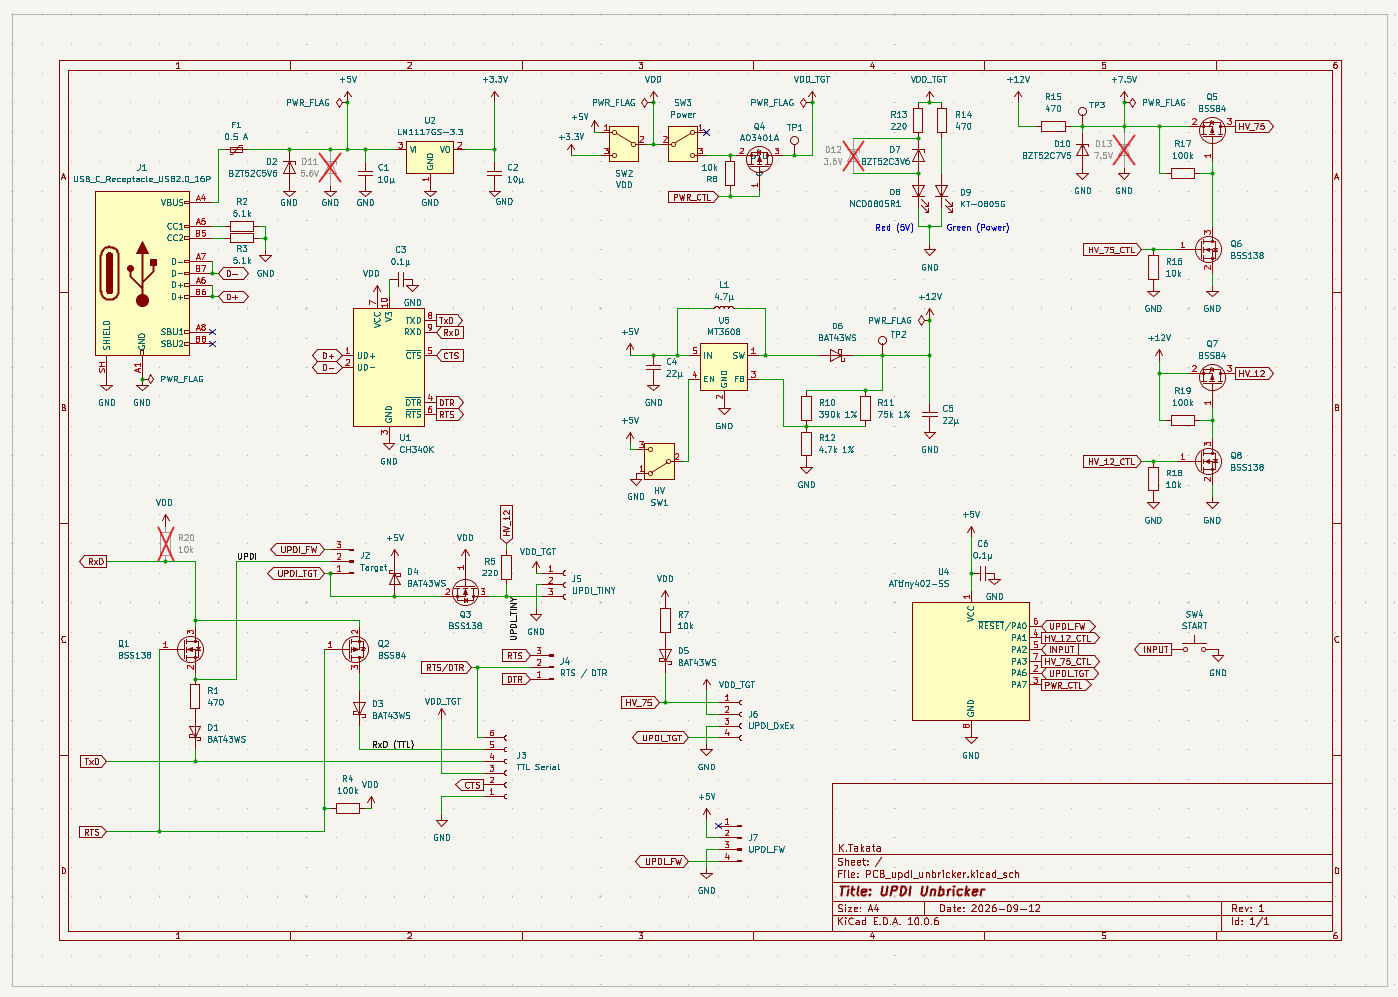
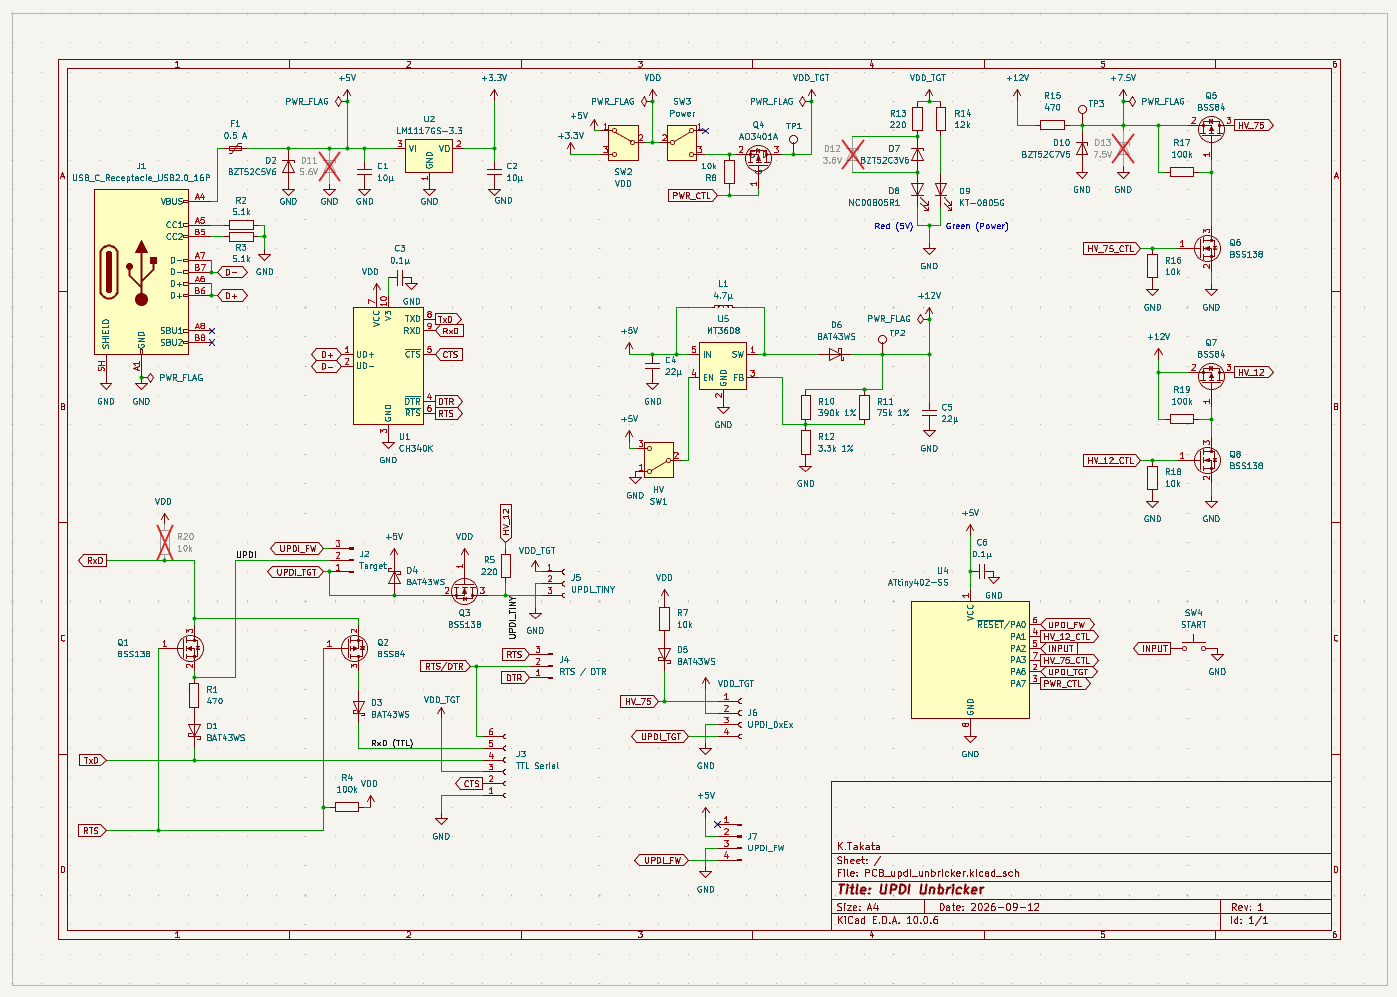
Change R14 value to 12 kΩ

diff --git a/README.md b/README.md
@@ -106,7 +106,7 @@ See “Usage” for detailed procedures.
 | R11 | 1 | 75 kΩ 1% | 1608M (\*5) |
 | R12 | 1 | 3.3 kΩ 1% | 1608M (\*5) |
 | R13 | 1 | 220 Ω | 1608M; adjust according to LED (47 Ω to 220 Ω) |
-| R14 | 1 | 470 Ω | 1608M; adjust according to LED |
+| R14 | 1 | 12 kΩ | 1608M; adjust according to LED |
 | R20 | (1) | 10 kΩ | Do not install (1608M) |
 | SW1-SW3 | 3 | [SS-12D00G3](https://akizukidenshi.com/catalog/g/g115707/) | Slide switch, SPDT, PCB mount |
 | SW4 | 1 |  | Push button switch |
